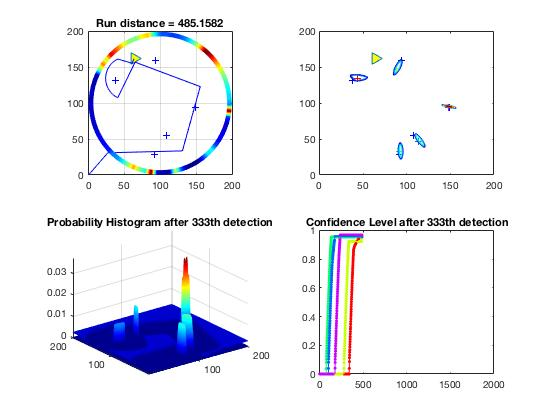
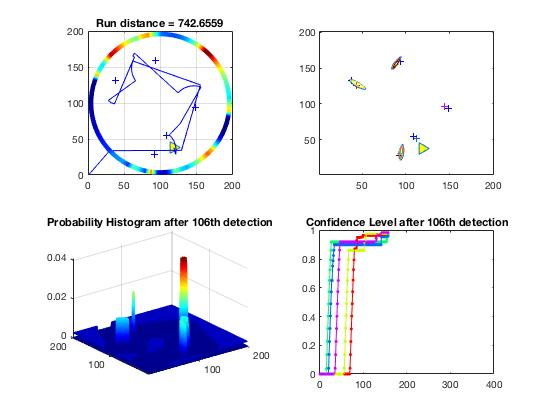
update

diff --git a/BayesDemonstration/compass/BayesDemonstrationCompassRF1.m b/BayesDemonstration/compass/BayesDemonstrationCompassRF1.m
@@ -46,7 +46,7 @@ sd = 1; %sensor error
 ttgrid = 3405;
 belief = cell(1,s_number); % Bayes' rule belief
 belief_init = ones(b+1,b+1)./numel(ones(b+1,b+1));
-boat_pass = ones(b+1,b+1); % .*100./numel(ones(b+1,b+1))
+boat_pass = ones(b+1,b+1); %.*100./numel(ones(b+1,b+1))
 for i=1:s_number
     belief{1,i}=belief_init;
 end
@@ -81,10 +81,12 @@ dpmt = 0.3;
 refine_m=0;
 enter_refine_mode=0;
 recal =1;
-mincl_old=0;
+idx_in_last=zeros(b_number,s_number);
 rsearch_mode=0;
 position_r=NaN(1,2);
 cl_level=0.95;
+now_min=[];
+now_min_old=0;
 % loop until ctrl+c
 while auto==0
     X=axis(joy, 1);     % X-axis is joystick axis 1
@@ -351,84 +353,44 @@ while auto ==1
             goal = [mean(rr1)-1,mean(cc1)-1];
             lamda = atan2(goal(1,2)-boat_last(1,2),goal(1,1)-boat_last(1,1)); % heading
         end
-        %%---------- detect lower confidence level posistion ----------
-        if t==1
-            now = t;
-        else
-            now = t-1;
-        end
-        %         if ctn ==1
-        %             now=now-1;
-        %         end
-        %
-        if numel(find(eta(:,now)>0.7))==s_number && refine_m==0 && rsearch_mode==0
-            
-            if numel(find(eta(:,now)>0.85))>0.6*s_number || numel(find(eta(:,now)>0.85))== round(0.6*s_number)
-                for i=1:b_number
-                    for i1=1:s_number
-                        % calculate distace bwt boat and estimated position
-                        distance_bwest(i,i1)=dist(est_position(i1,:),boat_current(i,:));
-                    end
-                end
-                distance_bwest1=distance_bwest;
-                mincl = find(distance_bwest(:)==min(distance_bwest1(:)));
-                k=1;
-                while k<5
-                    if mincl_old == mincl || eta(mincl,now)>cl_level
-                        if k==1
-                            distance_bwest1(:,mincl)=[];
-                        else
-                            distance_bwest1(:,mincl1)=[];
-                        end
-                        mincl1 = find(distance_bwest1(:)==min(distance_bwest1(:)));
-                        mincl = find(distance_bwest(:)==distance_bwest1(mincl1));
-                        findori=0;
-                    else
-                        findori = 1; % find best oritation in refine mode
-                        break
-                    end
-                    k=k+1;
-                end
-                
-                while findori == 1
-                    if eta(mincl,now)>cl_level
-                        distance_bwest1(:,mincl)=[];
-                        mincl1 = find(distance_bwest1(:)==min(distance_bwest1(:)));
-                        mincl = find(distance_bwest(:)==distance_bwest1(mincl1));
-                        %                     mincl=find(eta(:,now)==min(eta(:,now)));
-                    else
-                        findori = 0;
-                    end
-                    
-                    mincl_old = mincl;
-                end
-                gama = atan2(boat_last(1,2)-est_position(mincl,2),boat_last(1,1)-est_position(mincl,1));
-                position_r(1,1)=est_position(mincl,1)+cos(gama)*range;
-                position_r(1,2)=est_position(mincl,2)+sin(gama)*range;
-                est_position1=est_position(mincl,:);
-                lamda = atan2(position_r(1,2)-boat_last(1,2),position_r(1,1)-boat_last(1,1));
-                %                     s=atan2(est_position(mincl,2)-1-ceil(b/2)-1,est_position(mincl,1)-1-ceil(b/2)-1)/pi*180;
-                %                     if s<0
-                %                         s=s+360;
-                %                     end
-                %                     cc(1,1)=round(s(1,1)/5);
-                %                     hp=compass(1,cc(1));
-                refine_m =1;
-                enter_refine_mode=1;
-                rsearch_mode=0;
-            end
-            
-        end
         
-        if rsearch_mode == 1 && enter_refine_mode==1
-            if first==1
-                lamda1=atan2(boat_last(1,2)-est_position(mincl,2),boat_last(1,1)-est_position(mincl,1));
+        if enter_refine_mode ==1 && first ==1
+            if isempty(now_min)==1
+                distance_bwest=zeros(1,s_number);
+                for i = 1: numel(c_r)
+                    distance_bwest(1,c_r(i))=dist(boat_last,est_position(c_r(i),:));
+                end
+                [~,c_m]=find(distance_bwest>0);
+                [~,c_m]=find(distance_bwest==min(distance_bwest(1,c_m(:))));
+                gama = atan2(boat_last(1,2)-est_position(c_m,2),boat_last(1,1)-est_position(c_m,1));
+                position_r(1,1)=est_position(c_m,1)+cos(gama)*range;
+                position_r(1,2)=est_position(c_m,2)+sin(gama)*range;
+                lamda = atan2(position_r(1,2)-boat_last(1,2),position_r(1,1)-boat_last(1,1));
                 first=0;
             end
-            %                 lamda2=(lamda1/pi*180+360)/180*pi;
-            x=est_position(mincl_old,1)+cos(lamda1-start*v/range)*range;  % boat x coordinate.
+        end
+        
+        if enter_refine_mode == 1 && first ==1
+            if isempty(now_min)==0
+                gama = atan2(boat_last(1,2)-est_position(now_min,2),boat_last(1,1)-est_position(now_min,1));
+                position_r(1,1)=est_position(now_min,1)+cos(gama)*range;
+                position_r(1,2)=est_position(now_min,2)+sin(gama)*range;
+                lamda = atan2(position_r(1,2)-boat_last(1,2),position_r(1,1)-boat_last(1,1));
+                first=0;
+                first_enter=1;
+                c_m=now_min;
+            end
+        end
+        
+        if rsearch_mode==1 && enter_refine_mode==1
+            if first_enter==1
+                lamda1=atan2(boat_last(1,2)-est_position(c_m,2),boat_last(1,1)-est_position(c_m,1));
+                first_enter=0;
+            end
             
-            y=est_position(mincl_old,2)+sin(lamda1-start*v/range)*range;  % boat y coordinate.
+            x=est_position(c_m,1)+cos(lamda1-start*v/range)*range;  % boat x coordinate.
+            
+            y=est_position(c_m,2)+sin(lamda1-start*v/range)*range;  % boat y coordinate.
             start=start+1;
             if x<0
                 x=0;
@@ -443,35 +405,37 @@ while auto ==1
             end
             
             if dist([x,y],boat_last)>v
-                pts_in{1,mincl_old}=overlapping(xy,boat_current(1,:),range);
-                boat_belief{1,mincl_old}=zeros(b+1,b+1);
-                
-                for i5 = 1: numel(pts_in{1,mincl_old})/2
-                    boat_belief{1,mincl_old}(pts_in{1,mincl_old}(i5,2)+1,pts_in{1,mincl_old}(i5,1)+1)=PDF(pts_in{1,mincl_old}(i5,:),boat_current(1,:),range,sd); %prob_in{i3,i4}
-                    boat_pass(pts_in{1,mincl_old}(i5,2)+1,pts_in{1,mincl_old}(i5,1)+1)=0;
-                end
-                belief{1,mincl_old}=belief{1,mincl_old}.*boat_belief{1,mincl_old};
-                normalizer=1/sum(belief{1,mincl_old}(:));
-                belief{1,mincl_old}=belief{1,mincl_old}.*normalizer;
-                eta_now= 1-numel(find(belief{1,mincl_old}>belief_init))/ttgrid;
-                if eta_now<cl_level
-                    gama = atan2(boat_last(1,2)-est_position(mincl_old,2),boat_last(1,1)-est_position(mincl_old,1));
-                    position_r(1,1)=est_position(mincl_old,1)+cos(gama)*range;
-                    position_r(1,2)=est_position(mincl_old,2)+sin(gama)*range;
-                    lamda = atan2(position_r(1,2)-boat_last(1,2),position_r(1,1)-boat_last(1,1));
-                    rsearch_mode=0;
-                else
-                    rsearch_mode=0;
-                    refine_m=0;
-                    eta(:,now)=eta(:,now-1);
-                    eta(:,now+1)=eta(:,now);
-                    trajactory(t+1,:)=trajactory(t,:);
-                    if numel(find(eta(:,now)>cl_level))==s_number  %%mean(eta(:,now))>0.95
-                        break
+                gama = atan2(boat_last(1,2)-est_position(c_m,2),boat_last(1,1)-est_position(c_m,1));
+                position_r(1,1)=est_position(c_m,1)+cos(gama)*range;
+                position_r(1,2)=est_position(c_m,2)+sin(gama)*range;
+                lamda = atan2(position_r(1,2)-boat_last(1,2),position_r(1,1)-boat_last(1,1));
+                rsearch_mode=0;
+            end
+            now_est=find(eta(:,t-1)>0);
+            if eta(c_m,t-1)>cl_level
+                if isempty(now_est)==0
+                    now_min=find(eta(:,t-1)==min(eta(now_est(:),t-1)));
+                    if now_min ~= now_min_old
+                        first=1;
                     end
+                    now_min_old=now_min;
+                end
+            end    
+                if isempty(now_est)==1 || numel(now_est)==numel(find(eta(:,t-1)>cl_level))
+                    enter_refine_mode=0;
+                    rsearch_mode=0;
+                    eta(:,t)=eta(:,t-1);
+                    trajactory(t+1,:)=trajactory(t,:);
+                    recal=1;
+                    first=1;
+                    now_min=[];
+                    position_r=NaN(1,2);
                     continue
                 end
-            end
+                if numel(find(eta(:,t)>cl_level))==s_number  %%mean(eta(:,now))>0.95
+                    break
+                end
+            
         end
         
         if rsearch_mode==0
@@ -481,33 +445,33 @@ while auto ==1
             if dist_bpr<v && isnan(dist_bpr)==0
                 x=boat_last(1,1)+cos(lamda)*dist_bpr;
                 y=boat_last(1,2)+sin(lamda)*dist_bpr;
+                rsearch_mode=1;
+                first_enter=1;
             end
             if x<0
                 x=0;
+                first=1;
             elseif x>b
                 x=b;
+                first=1;
             end
             
             if y<0
                 y=0;
+                first=1;
             elseif y>b
                 y=b;
+                first=1;
             end
         end
+        
+        
         
         boat_current = [x,y];
         
         distance = distance + dist(boat_last,boat_current);
         trajactory(t+1,:)=boat_current;
         boat_last = boat_current;
-        
-        if isnan(position_r)==0
-            if dist(boat_current,position_r)<10^-6
-                rsearch_mode=1;
-                start=1;
-                first=1;
-            end
-        end
         %----------- sensor detect ------------
         
         pts_in = cell(b_number,s_number); % find the possible position in the range
@@ -526,14 +490,13 @@ while auto ==1
                         boat_belief{i,i1}(pts_in{i,i1}(i5,2)+1,pts_in{i,i1}(i5,1)+1)=PDF(pts_in{i,i1}(i5,:),boat_current(i,:),range,sd); %prob_in{i3,i4}
                         boat_pass(pts_in{i,i1}(i5,2)+1,pts_in{i,i1}(i5,1)+1)=0;
                     end
-                    if isnan(belief{1,i1})==1
-                        belief{1,i1}=belief_last{1,i1};
-                    end
-                    
-                    belief_last{1,i1}=belief{1,i1};
                     belief{1,i1}=belief{1,i1}.*boat_belief{i,i1};
                     normalizer=1/sum(belief{1,i1}(:));
                     belief{1,i1}=belief{1,i1}.*normalizer;
+                    if isnan(belief{1,i1})==1
+                        belief{1,i1}=belief_last{1,i1};
+                    end
+                    belief_last{1,i1}=belief{1,i1};
                 else
                     idx_in(i,i1)=0;
                     pts_in{i,i1}=overlapping(xy,boat_current(i,:),range+3*sd);
@@ -569,40 +532,31 @@ while auto ==1
             end
         end
         
-        %%---- if dt(variance)~=0--------
-        %             delta = variance_last-variance;
+        
+        %%----------- verify change mode-------------------
+        if enter_refine_mode ==0 && recal==0
+            idx_delta=idx_in_last-idx_in;
+            if numel(find(idx_delta>0))>0
+                [r_r,c_r]=find((idx_delta)>0); 
+                for i =1: numel(c_r)
+                    if eta(c_r(i),t-2)<cl_level
+                        enter_refine_mode=1;
+                        first=1;
+                    else
+                        c_r(i)=[];
+                    end
+                end
+            end
+            idx_in_last = idx_in;    
+        end
+        
         if x==0 || x==b || y==0 || y==b && enter_refine_mode ==0
             recal =1;
         end
-        
-        if enter_refine_mode ==0
-            idx_delta=find(idx_in>0,1);
-            if isempty(idx_delta)==1 && isempty(idx_deltal)==0
-                
-                recal=1;
-            end
-            idx_in_last = idx_in;
-            idx_deltal=find(idx_in_last>0,1);
-        end
-        
-        if enter_refine_mode ==1
-            %                 idx_delta=find(idx_in(mincl)>0);
-            %                 if isempty(idx_delta)==1 && isempty(idx_deltal)==0
-            %
-            %                     refine_m=0;
-            %                 end
-            %                 idx_in_last = idx_in;
-            %                 idx_deltal=find(idx_in_last(mincl)>0);
-            
-            if eta(mincl,now)>cl_level && rsearch_mode==1
-                refine_m=0;
-                rsearch_mode=0;
-            end
-        end
-        
-        
+
         variance_last = variance;
         
+        %------------- estimate position ---------
         for  ii=1:s_number
             sumr=0;
             sumc=0;
@@ -613,9 +567,6 @@ while auto ==1
             end
             est_position(ii,2)=sumr-1;
             est_position(ii,1)=sumc-1;
-            %                 est_position(ii,2)=mean(r4)-1;
-            %                 est_position(ii,1)=mean(c4)-1;
-            %         est_position(ii,:)=sum(weight{1,ii});
         end
         
         %--------------- Confidence level ---------
@@ -627,6 +578,12 @@ while auto ==1
                 else
                     eta(ii1,t)=1-numel(find(belief{1,ii1}>belief_init))/ttgrid;
                 end
+                if t>1
+                    if isnan(eta(ii1,t))==1
+                        eta(ii1,t)=eta(ii1,t-1);
+                    end
+                end
+                
             end
         else
             if index==1
@@ -638,11 +595,19 @@ while auto ==1
         
         %%------------ detect parameter ---------
         dpmt=min(eta(:,t));
-        %             dpmt = sum(eta(:,index))/s_number;
         if dpmt<0.3
             dpmt=0.3;
         elseif dpmt>0.85
             dpmt = 0.85;
+        end 
+
+
+        if isnan(position_r)==0
+            if dist(boat_current,position_r)<10^-6
+                rsearch_mode=1;
+                start=1;
+                first=1;
+            end
         end
         
         %----------- Plot boat curretn position ------------------
@@ -722,7 +687,7 @@ while auto ==1
         
         pause(.001)
         
-        if numel(find(eta(:,now)>cl_level))==s_number  %%mean(eta(:,now))>0.95
+        if numel(find(eta(:,t)>cl_level))==s_number  
             break
         end
     end
